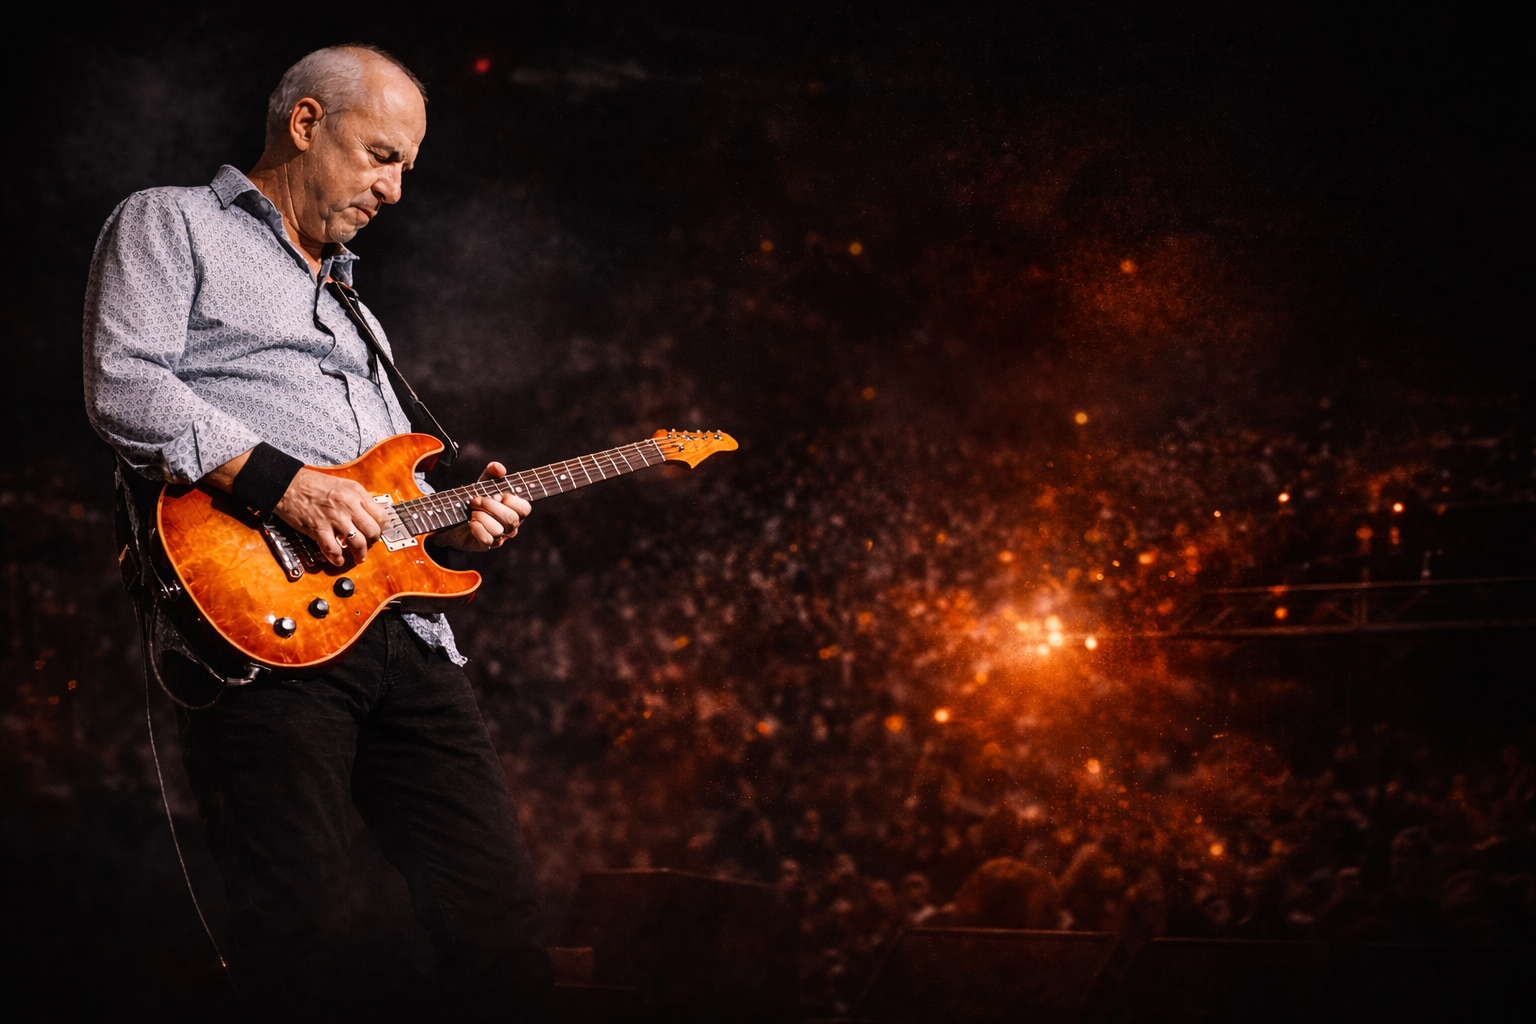
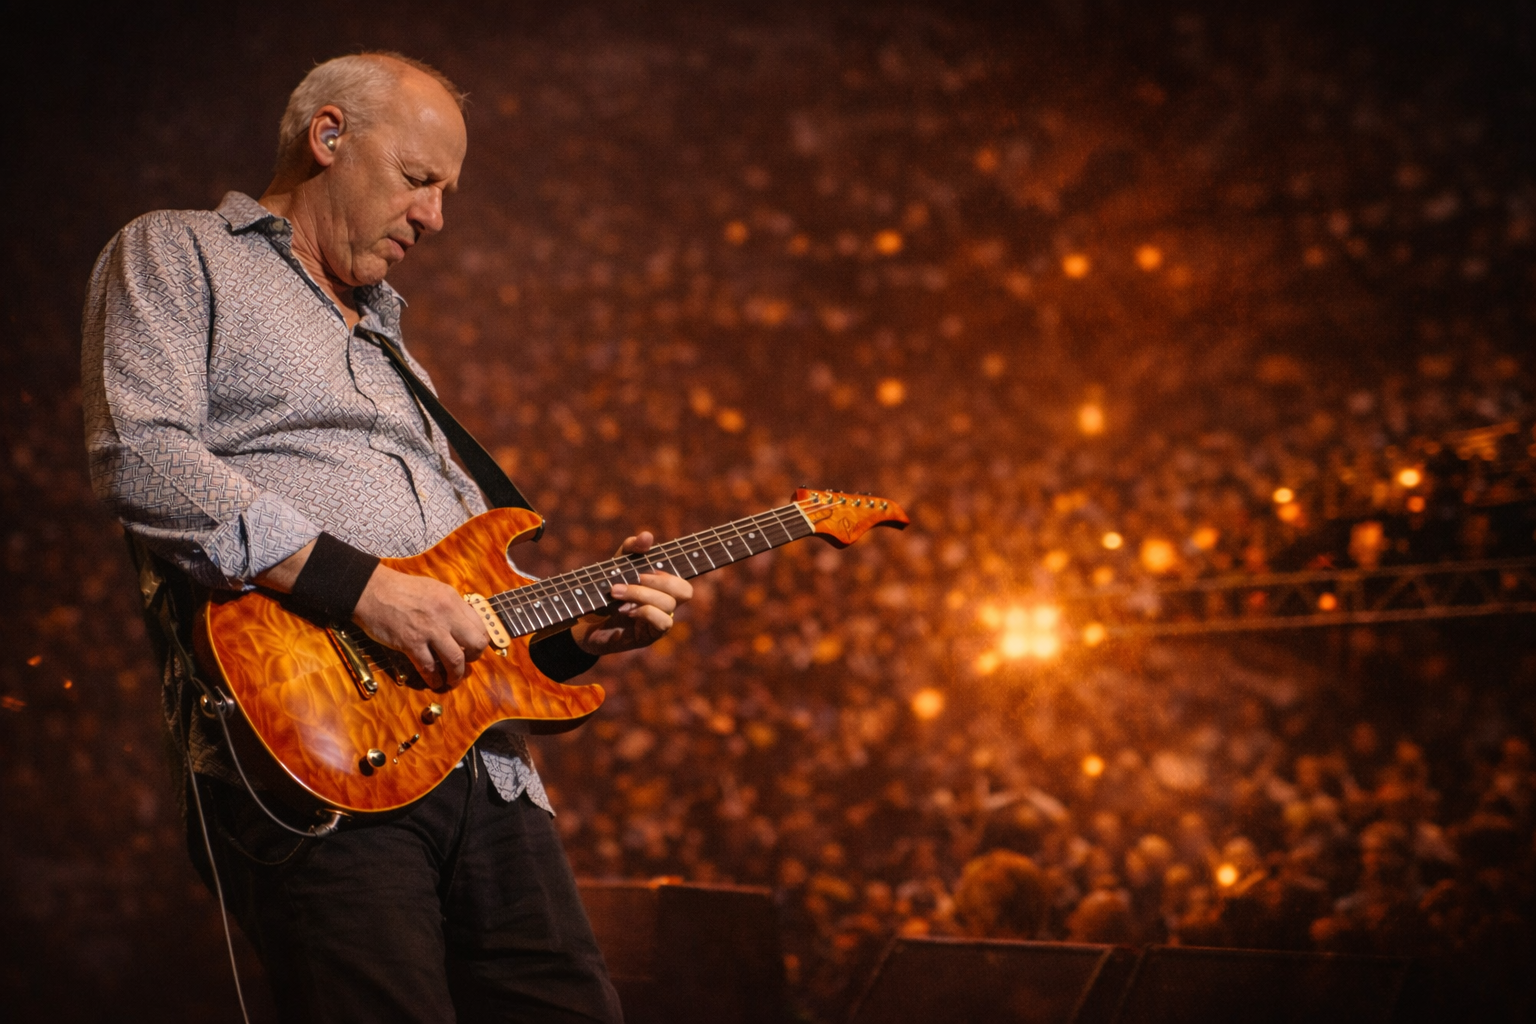
modifie image de fond

diff --git a/style.css b/style.css
@@ -230,13 +230,13 @@ a {
   background:
     linear-gradient(
       90deg,
-      rgba(0, 0, 0, 0.78) 0%,
-      rgba(0, 0, 0, 0.52) 40%,
-      rgba(0, 0, 0, 0.22) 100%
+      rgba(0, 0, 0, 0.32) 0%,
+      rgba(0, 0, 0, 0.14) 40%,
+      rgba(0, 0, 0, 0.02) 100%
     ),
     url("images/background_mark.jpg");
   background-size: cover;
-  background-position: left center;
+  background-position: 20% center;
   background-repeat: no-repeat;
   padding: 0;
 }
